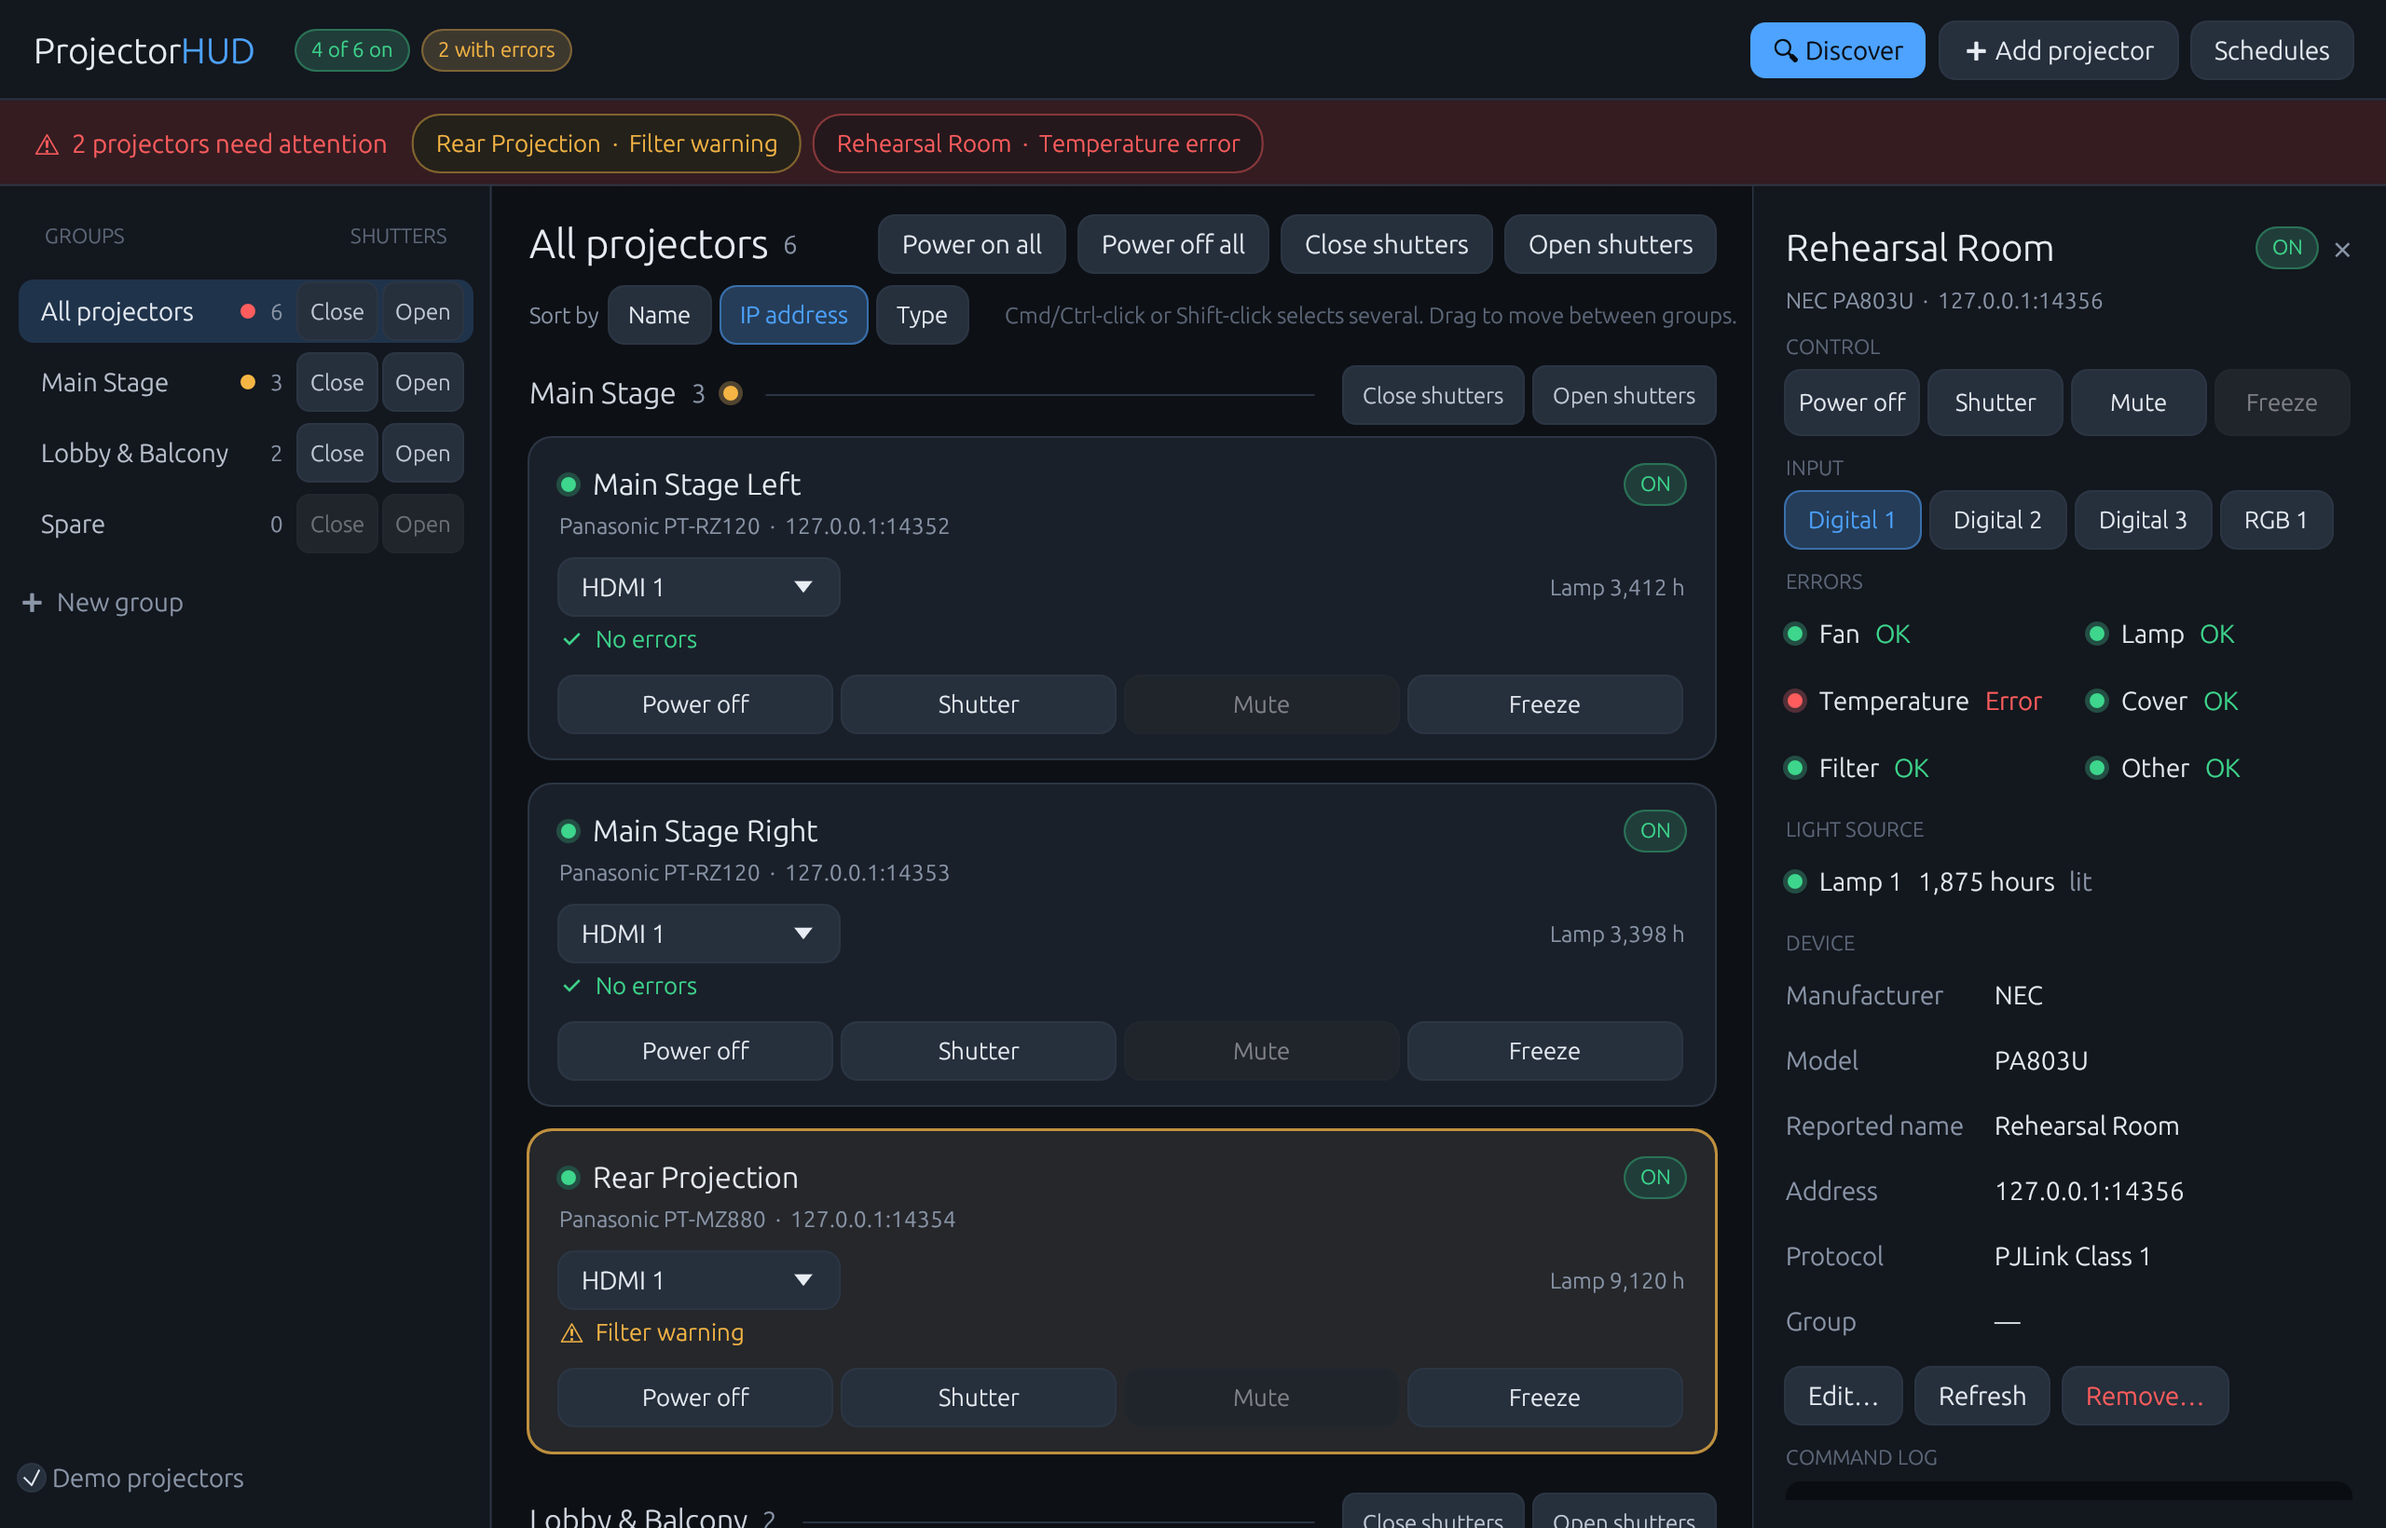
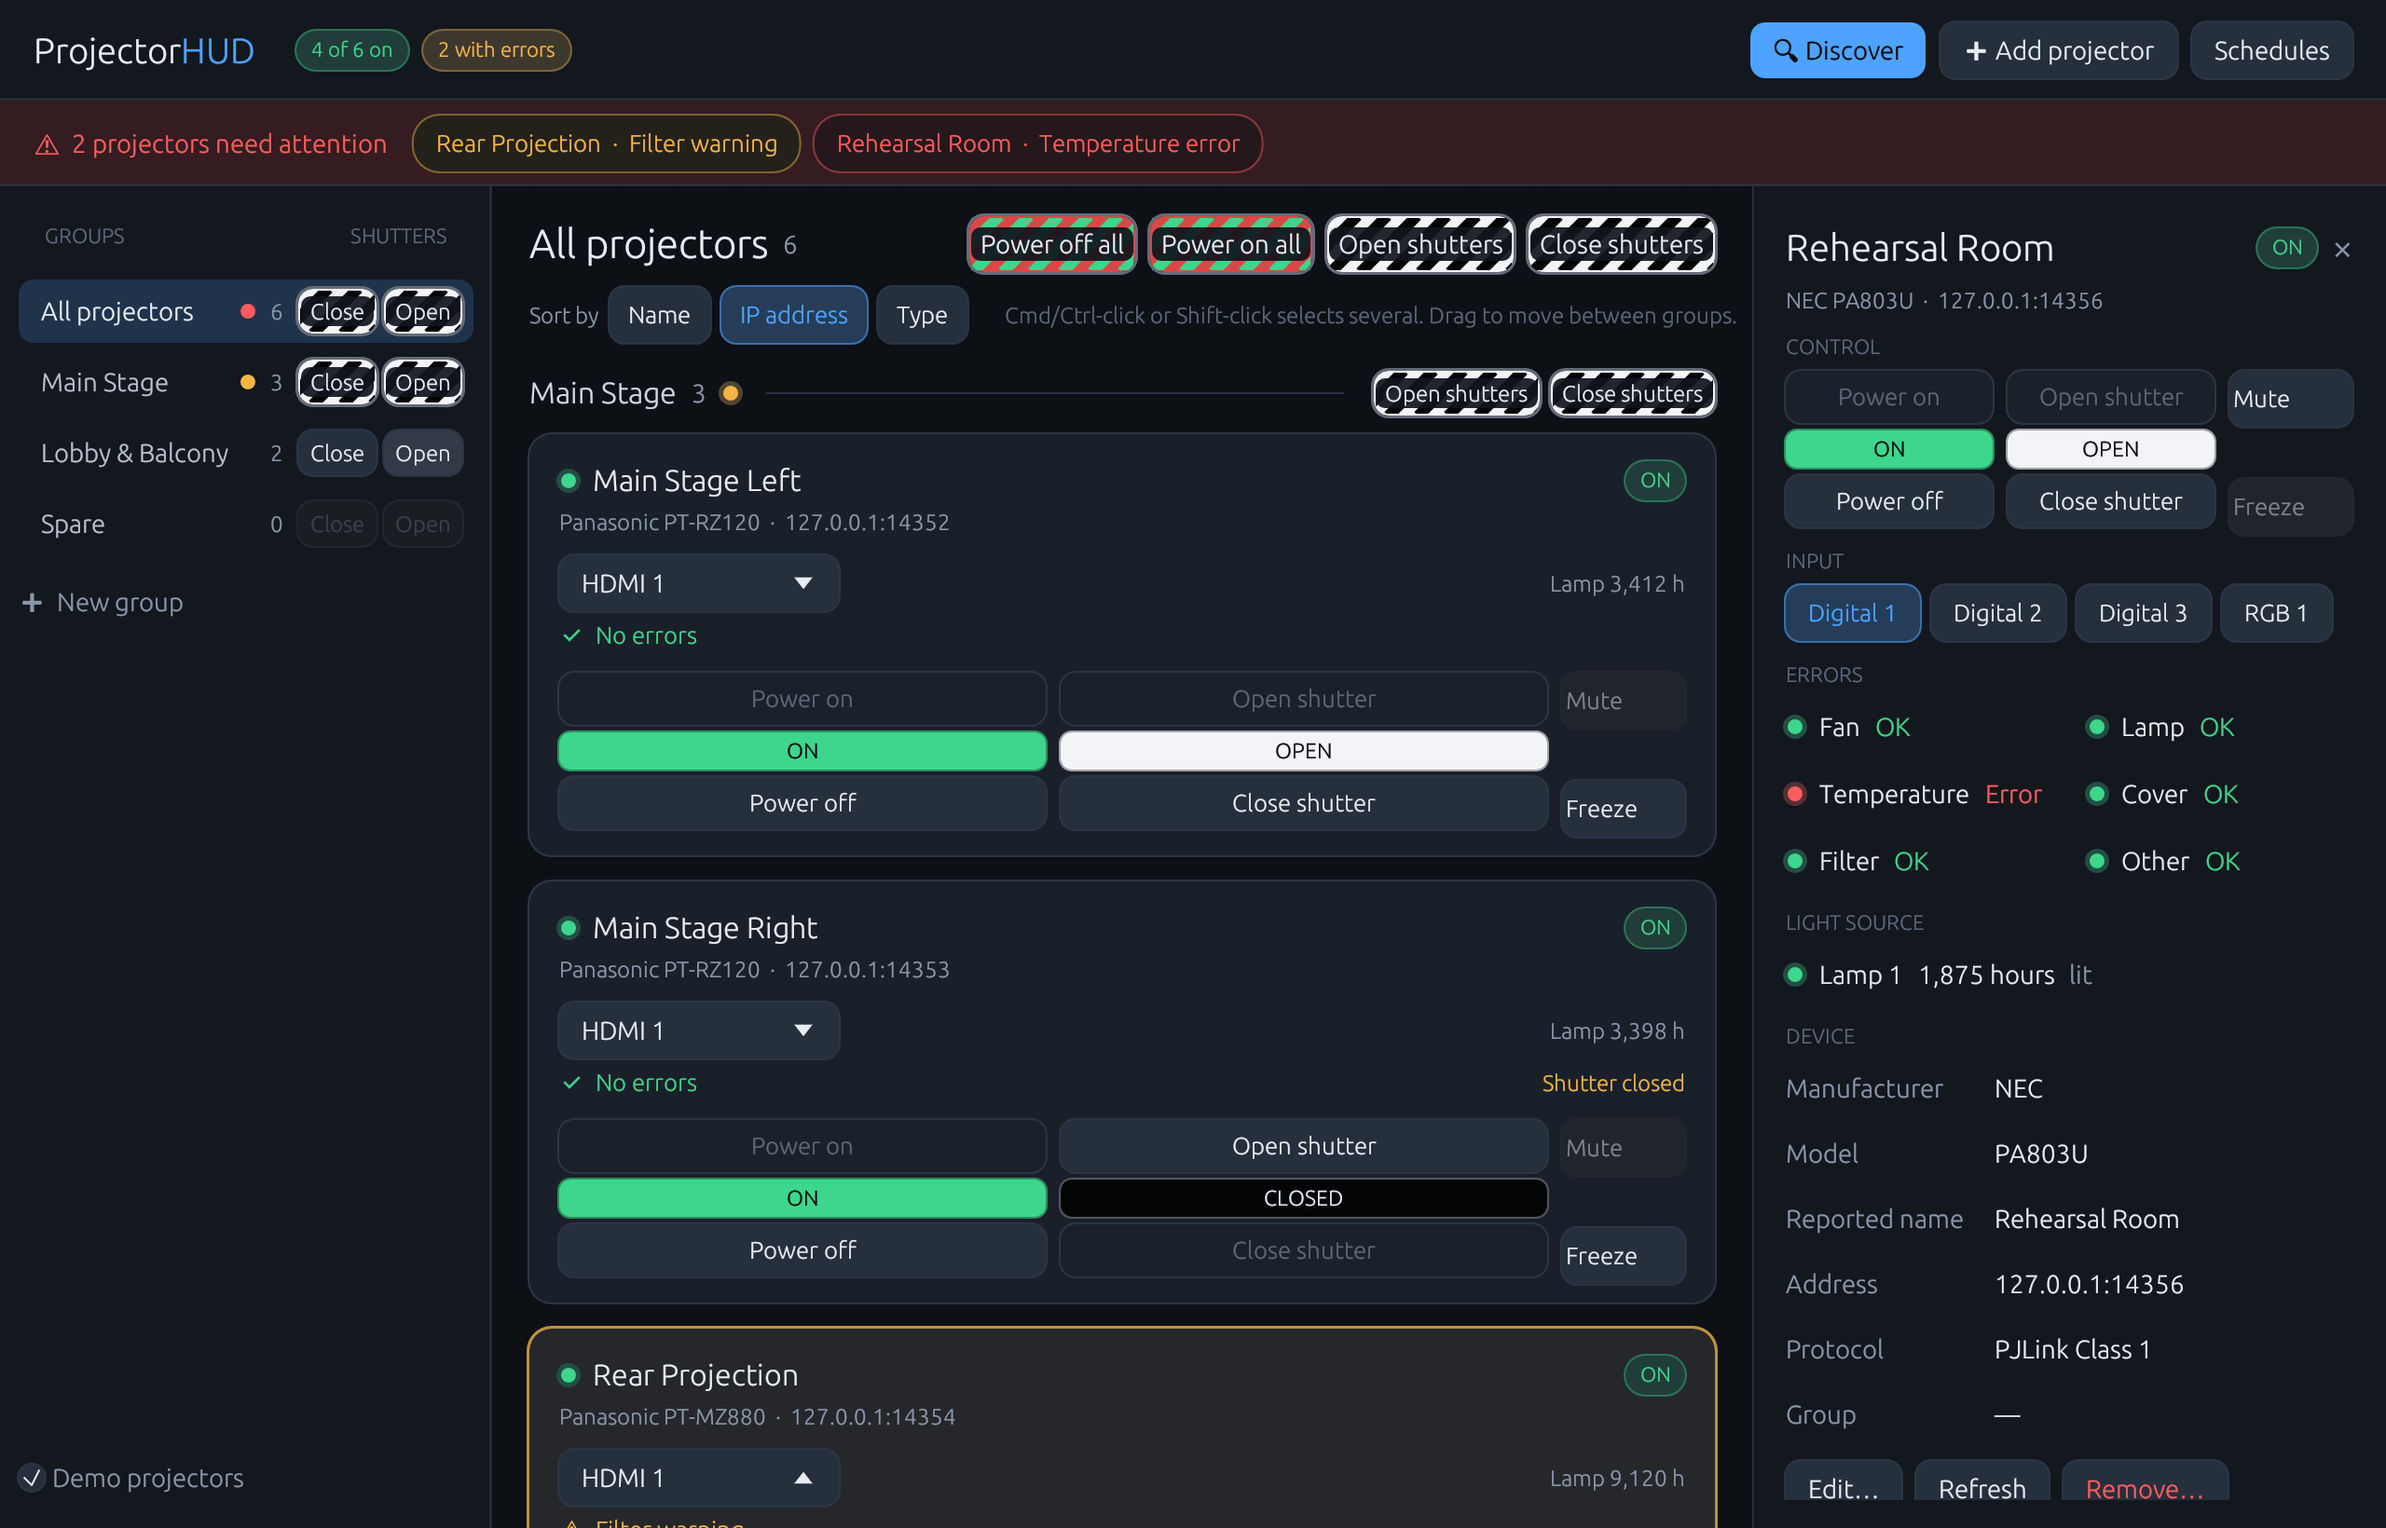
Each projector has both power and both shutter buttons, with the state between
Power on above and Power off below, Open shutter above and Close shutter
below, and a status bar between each pair in the state's colour (green/red
for power, white/black for the shutter). The button that would do nothing is
greyed out. Group buttons keep the state colours and stripes.

diff --git a/src/ui/mod.rs b/src/ui/mod.rs
@@ -16,7 +16,7 @@ use std::time::{Duration, Instant};
 use theme::*;
 
 const CARD_MIN_W: f32 = 340.0;
-const CARD_H: f32 = 172.0;
+const CARD_H: f32 = 226.0;
 const GAP: f32 = 14.0;
 const DEMO_GROUP: &str = "Demo";
 
@@ -1281,7 +1281,7 @@ impl App {
 
             // Controls pinned to the bottom edge
             let bottom = egui::Rect::from_min_max(
-                egui::pos2(inner.left(), inner.bottom() - 30.0),
+                egui::pos2(inner.left(), inner.bottom() - CONTROLS_H),
                 inner.right_bottom(),
             );
             let mut row = ui.new_child(
@@ -1291,7 +1291,7 @@ impl App {
             );
             row.spacing_mut().item_spacing.x = 6.0;
             row.spacing_mut().button_padding = Vec2::new(4.0, 4.0);
-            control_buttons(&mut row, inner.width(), 30.0, cfg, st, acts);
+            control_buttons(&mut row, inner.width(), cfg, st, acts);
         }
     }
 
@@ -1335,7 +1335,7 @@ impl App {
                         ui.spacing_mut().item_spacing.x = 6.0;
                         ui.spacing_mut().button_padding = Vec2::new(4.0, 4.0);
                         let w = ui.available_width();
-                        control_buttons(ui, w, 34.0, cfg, st, acts);
+                        control_buttons(ui, w, cfg, st, acts);
                     });
                     let on = st.link == Link::Online && st.power == Power::On;
                     if on && st.class >= 2 {
@@ -1509,115 +1509,187 @@ fn remove_confirm(cfg: &ProjectorConfig) -> Act {
     })
 }
 
-/// Power / Shutter / Mute / Freeze, shared by cards and the detail panel.
-/// Power and shutter are coloured by their present state and labelled with
-/// what a click will do.
+/// Height of the control block on a card: button, status, button.
+const CONTROLS_H: f32 = 84.0;
+
+/// The controls for one projector. Power and shutter each get a stack: the
+/// "on" action above, the "off" action below, and the present state between
+/// them, so both actions are always in the same place. Whichever would do
+/// nothing is greyed out. Mute and freeze sit in a third, narrower stack.
 fn control_buttons(
     ui: &mut egui::Ui,
     width: f32,
-    height: f32,
     cfg: &ProjectorConfig,
     st: &ProjectorState,
     acts: &mut Vec<Act>,
 ) {
+    const BTN_H: f32 = 28.0;
+    const GAP: f32 = 8.0;
     let online = st.link == Link::Online;
     let on = online && st.power == Power::On;
-    let usable = width - ui.spacing().item_spacing.x * 3.0;
-    let wide = (usable * 0.31).floor();
-    let narrow = ((usable - wide * 2.0) / 2.0).floor();
+    let (rect, _) = ui.allocate_exact_size(Vec2::new(width, CONTROLS_H), Sense::hover());
+    let side = 66.0_f32.min(width * 0.22);
+    let col = ((width - side - GAP * 2.0) / 2.0).floor();
+    let column = |ui: &mut egui::Ui, x: f32, w: f32| {
+        let r = egui::Rect::from_min_size(
+            egui::pos2(rect.left() + x, rect.top()),
+            Vec2::new(w, CONTROLS_H),
+        );
+        let mut child = ui.new_child(
+            egui::UiBuilder::new()
+                .max_rect(r)
+                .layout(Layout::top_down(Align::Min)),
+        );
+        child.spacing_mut().item_spacing.y = 0.0;
+        child
+    };
+    let status_h = CONTROLS_H - BTN_H * 2.0;
 
-    let (label, look, enabled, tip) = match st.power {
-        _ if !online => ("Power", Look::Neutral, false, "Not reachable"),
-        Power::Standby => (
+    // Power
+    {
+        let mut ui = column(ui, 0.0, col);
+        let size = Vec2::new(col, BTN_H);
+        let r = state_button(
+            &mut ui,
+            size,
             "Power on",
-            POWER_OFF,
-            true,
-            "The projector is off. Click to power it on.",
-        ),
-        Power::On => (
-            "Power off",
-            POWER_ON,
-            true,
-            "The projector is on. Click to power it off.",
-        ),
-        Power::Warming => ("Warming…", Look::Neutral, false, "Warming up"),
-        Power::Cooling => ("Cooling…", Look::Neutral, false, "Cooling down"),
-        Power::Unknown => ("Power", Look::Neutral, false, "Power state unknown"),
-    };
-    let r = state_button(ui, Vec2::new(wide, height), label, 13.0, look, enabled);
-    if r.on_hover_text(tip).on_disabled_hover_text(tip).clicked() {
-        acts.push(if st.power == Power::On {
-            power_off_confirm(cfg)
-        } else {
-            Act::Send(cfg.id, Command::PowerOn)
-        });
-    }
-
-    let (label, look, enabled, tip) = match st.video_mute {
-        Some(true) if on => (
-            "Open shutter",
-            SHUTTER_CLOSED,
-            true,
-            "The shutter is closed. Click to open it.",
-        ),
-        Some(false) if on => (
-            "Close shutter",
-            SHUTTER_OPEN,
-            true,
-            "The shutter is open. Click to close it.",
-        ),
-        _ => (
-            "Shutter",
+            13.0,
             Look::Neutral,
-            false,
-            "Available when the projector is on",
-        ),
-    };
-    let r = state_button(ui, Vec2::new(wide, height), label, 13.0, look, enabled);
-    if r.on_hover_text(tip).on_disabled_hover_text(tip).clicked() {
-        acts.push(Act::Send(
-            cfg.id,
-            Command::VideoMute(st.video_mute != Some(true)),
-        ));
+            online && st.power == Power::Standby,
+        );
+        if r.on_disabled_hover_text("Available when the projector is in standby")
+            .clicked()
+        {
+            acts.push(Act::Send(cfg.id, Command::PowerOn));
+        }
+        let (text, look) = match st.power {
+            _ if !online => ("—", Look::Neutral),
+            Power::On => ("ON", POWER_ON),
+            Power::Standby => ("OFF", POWER_OFF),
+            Power::Warming => (
+                "WARMING",
+                Look::Solid {
+                    fill: AMBER,
+                    text: Color32::from_rgb(0x08, 0x0B, 0x10),
+                },
+            ),
+            Power::Cooling => (
+                "COOLING",
+                Look::Solid {
+                    fill: COOL,
+                    text: Color32::from_rgb(0x08, 0x0B, 0x10),
+                },
+            ),
+            Power::Unknown => ("—", Look::Neutral),
+        };
+        status_bar(&mut ui, Vec2::new(col, status_h), text, look);
+        let r = state_button(&mut ui, size, "Power off", 13.0, Look::Neutral, on);
+        if r.on_disabled_hover_text("Available when the projector is on")
+            .clicked()
+        {
+            acts.push(power_off_confirm(cfg));
+        }
     }
 
-    let size = Vec2::new(narrow, height);
-    let muted = st.audio_mute == Some(true);
-    let r = toggle(
-        ui,
-        size,
-        "Mute",
-        muted.then_some(AMBER),
-        on && st.audio_mute.is_some(),
-    );
-    if r.on_hover_text(if muted {
-        "Audio is muted. Click to unmute."
-    } else {
-        "Mute audio"
-    })
-    .on_disabled_hover_text("This projector has no separate audio mute, or is not powered on")
-    .clicked()
+    // Shutter
     {
-        acts.push(Act::Send(cfg.id, Command::AudioMute(!muted)));
+        let mut ui = column(ui, col + GAP, col);
+        let size = Vec2::new(col, BTN_H);
+        let state = if on { st.video_mute } else { None };
+        let r = state_button(
+            &mut ui,
+            size,
+            "Open shutter",
+            13.0,
+            Look::Neutral,
+            state == Some(true),
+        );
+        if r.on_disabled_hover_text("Available when the shutter is closed")
+            .clicked()
+        {
+            acts.push(Act::Send(cfg.id, Command::VideoMute(false)));
+        }
+        let (text, look) = match state {
+            Some(false) => ("OPEN", SHUTTER_OPEN),
+            Some(true) => ("CLOSED", SHUTTER_CLOSED),
+            None => ("—", Look::Neutral),
+        };
+        status_bar(&mut ui, Vec2::new(col, status_h), text, look);
+        let r = state_button(
+            &mut ui,
+            size,
+            "Close shutter",
+            13.0,
+            Look::Neutral,
+            state == Some(false),
+        );
+        if r.on_disabled_hover_text("Available when the projector is on and the shutter is open")
+            .clicked()
+        {
+            acts.push(Act::Send(cfg.id, Command::VideoMute(true)));
+        }
     }
 
-    let frozen = st.freeze == Some(true);
-    let r = toggle(
-        ui,
-        size,
-        "Freeze",
-        frozen.then_some(COOL),
-        on && st.freeze.is_some(),
-    );
-    if r.on_hover_text(if frozen {
-        "Picture is frozen. Click to resume."
-    } else {
-        "Freeze the picture"
-    })
-    .on_disabled_hover_text("Needs PJLink Class 2 and the projector powered on")
-    .clicked()
+    // Mute and freeze
     {
-        acts.push(Act::Send(cfg.id, Command::Freeze(!frozen)));
+        let mut ui = column(ui, (col + GAP) * 2.0, side);
+        let size = Vec2::new(side, BTN_H);
+        let ink = Color32::from_rgb(0x08, 0x0B, 0x10);
+        let muted = st.audio_mute == Some(true);
+        let look = if muted {
+            Look::Solid {
+                fill: AMBER,
+                text: ink,
+            }
+        } else {
+            Look::Neutral
+        };
+        let r = state_button(
+            &mut ui,
+            size,
+            "Mute",
+            13.0,
+            look,
+            on && st.audio_mute.is_some(),
+        );
+        if r.on_hover_text(if muted {
+            "Audio is muted. Click to unmute."
+        } else {
+            "Mute audio"
+        })
+        .on_disabled_hover_text("This projector has no separate audio mute, or is not powered on")
+        .clicked()
+        {
+            acts.push(Act::Send(cfg.id, Command::AudioMute(!muted)));
+        }
+        ui.add_space(status_h);
+        let frozen = st.freeze == Some(true);
+        let look = if frozen {
+            Look::Solid {
+                fill: COOL,
+                text: ink,
+            }
+        } else {
+            Look::Neutral
+        };
+        let r = state_button(
+            &mut ui,
+            size,
+            "Freeze",
+            13.0,
+            look,
+            on && st.freeze.is_some(),
+        );
+        if r.on_hover_text(if frozen {
+            "Picture is frozen. Click to resume."
+        } else {
+            "Freeze the picture"
+        })
+        .on_disabled_hover_text("Needs PJLink Class 2 and the projector powered on")
+        .clicked()
+        {
+            acts.push(Act::Send(cfg.id, Command::Freeze(!frozen)));
+        }
     }
 }
 

diff --git a/src/ui/theme.rs b/src/ui/theme.rs
@@ -326,3 +326,22 @@ pub fn state_button(
     p.galley(text_pos, galley, text_color);
     resp
 }
+
+/// The present state, shown between the two buttons that change it.
+pub fn status_bar(ui: &mut Ui, size: Vec2, text: &str, look: Look) {
+    let (rect, _) = ui.allocate_exact_size(size, Sense::hover());
+    let bar = rect.shrink2(Vec2::new(0.0, 4.0));
+    let (fill, color, stroke) = match look {
+        Look::Solid { fill, text } => (fill, text, mix(fill, text, 0.35)),
+        _ => (mix(BUTTON, BG, 0.5), FAINT, STROKE),
+    };
+    ui.painter()
+        .rect(bar, 6.0, fill, Stroke::new(1.0_f32, stroke));
+    ui.painter().text(
+        bar.center(),
+        egui::Align2::CENTER_CENTER,
+        text,
+        FontId::proportional(11.5),
+        color,
+    );
+}
